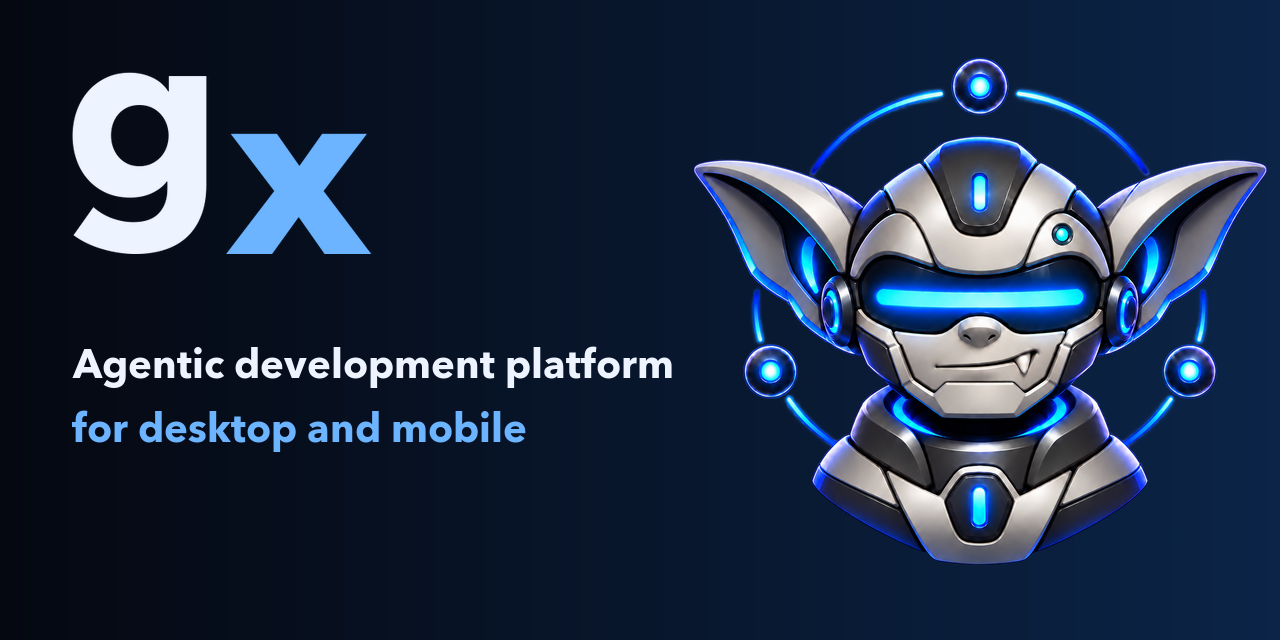
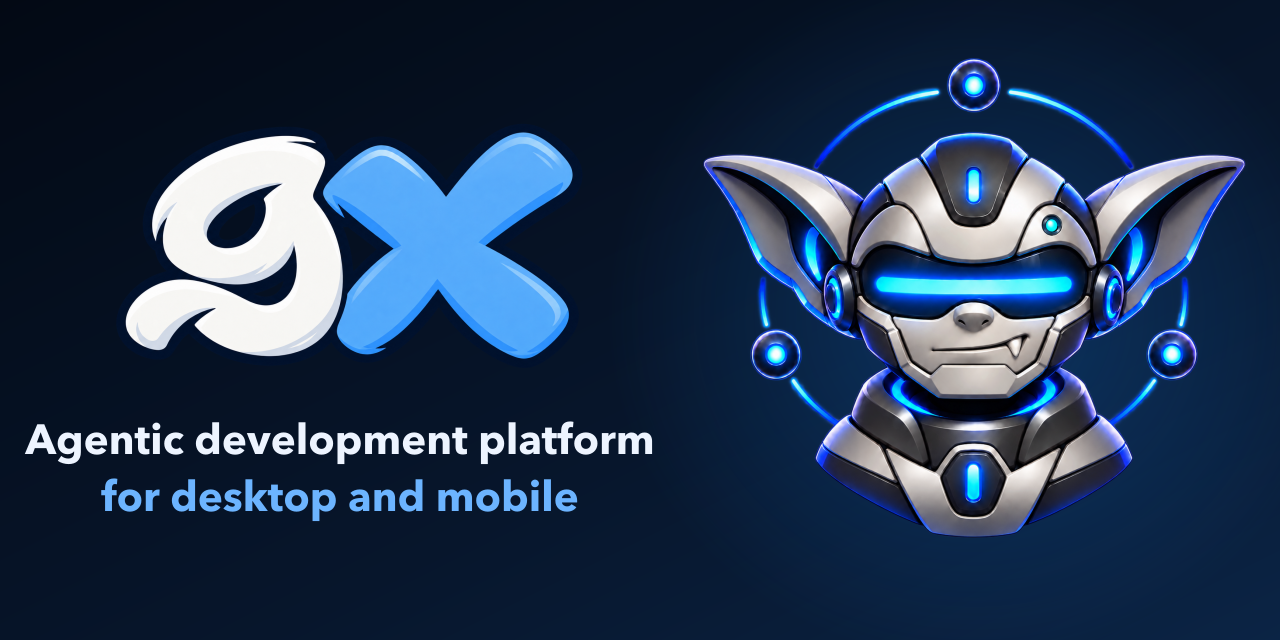
repo: update gx brand assets
Promote the selected banner and logo lockups across docs and web.\n\nUse the gx wordmark for browser favicons while retaining mascot iOS icons.

diff --git a/web/index.html b/web/index.html
@@ -2,7 +2,8 @@
 <html lang="en">
   <head>
     <meta charset="UTF-8" />
-    <link rel="icon" type="image/png" href="/favicon-64.png" />
+    <link rel="icon" type="image/png" sizes="64x64" href="/favicon-64.png" />
+    <link rel="apple-touch-icon" sizes="180x180" href="/apple-touch-icon.png" />
     <meta name="viewport" content="width=device-width, initial-scale=1.0" />
     <meta name="color-scheme" content="dark" />
     <meta name="theme-color" content="#1e1e2e" />

diff --git a/docs/brand/README.md b/docs/brand/README.md
@@ -1,0 +1,10 @@
+# gx brand assets
+
+- `banner-primary.{png,svg}` is layout A and the source for `../banner-1280x640.png`.
+- `banner-alternative.{png,svg}` is layout B.
+- `lockup-horizontal.png` is the primary mascot + wordmark layout; `lockup-stacked.png` is the secondary layout.
+- `wordmark-dark-master.png` and `wordmark-light-master.png` are transparent raster masters for dark and light backgrounds. The AI-generated letterforms are not vector paths.
+- `mascot-transparent.png` is the transparent mascot master. `app-icon-1024.png` and both Apple touch icons keep the mascot.
+- Browser favicons use the compact `gx` wordmark independently of the Apple touch icons.
+
+Keep the PNG and SVG banner pairs together: the SVG files reference sibling master images.

diff --git a/web/README.md b/web/README.md
@@ -37,7 +37,8 @@ The `gx.elentok.com` custom domain is configured once in the Cloudflare Pages da
 ```
 public/
   logo-440.webp                # web-optimized hero logo (~63 KB), from ../docs/logo.png
-  favicon-64.png               # favicon, from ../docs/logo.png
+  favicon-64.png               # compact gx favicon; iOS keeps the mascot icon
+  apple-touch-icon.png         # 180px mascot icon for iOS home screens
   fonts/                       # self-hosted, offline-safe
     Agave-Regular.woff2        # the terminal font gx is used with
     Agave-Bold.woff2
